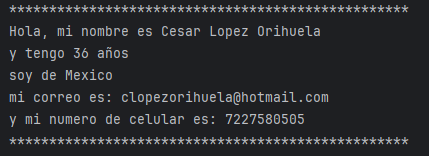
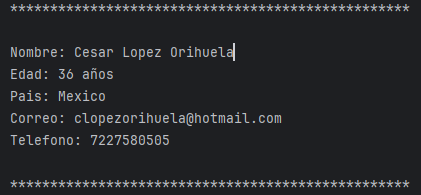
java actualizacion readme

diff --git a/Persentandome/src/Presentandome.java b/Persentandome/src/Presentandome.java
@@ -3,22 +3,25 @@ public class Presentandome {
     public static void main(String[] args) {
 
         // Declaramos variables.
+        String separador = "*".repeat(50);
         String nombre = "Cesar Lopez Orihuela";
         Integer edad = 36;
         String pais = "Mexico";
         String correo = "clopezorihuela@hotmail.com";
         String celular = "7227580505";
 
-        String mensaje = "Hola, mi nombre es " + nombre +
-                "\ny tengo " + edad + " años" +
-                "\nsoy de " + pais +
-                "\nmi correo es: " + correo +
-                "\ny mi numero de celular es: " + celular;
+        String mensaje = "Nombre: " + nombre +
+                "\nEdad: " + edad + " años" +
+                "\nPais: " + pais +
+                "\nCorreo: " + correo +
+                "\nTelefono: " + celular;
 
         // Mostramos en pantalla el  mensaje.
-        System.out.println("**************************************************");
+        System.out.println(separador);
+        System.out.println();
         System.out.println(mensaje);
-        System.out.println("**************************************************");
+        System.out.println();
+        System.out.println(separador);
 
     } // main
 } // clase

diff --git a/HolaMundo/src/HolaMundo.java b/HolaMundo/src/HolaMundo.java
@@ -2,10 +2,15 @@ public class HolaMundo {
     // Se agrega el metodo principal
     public static void main(String[] args) {
 
+        var separador = "*".repeat(50);
+
         // Mandamos a imprimir en pantalla el mensaje que se mostrara.
-        System.out.println("******************************");
+        System.out.println(separador);
+        System.out.println();
         System.out.println("Hola Mundo!");
         System.out.println("Primer Programa desde Java");
-        System.out.println("******************************");
+        System.out.println();
+        System.out.println(separador);
+
     }
 }
